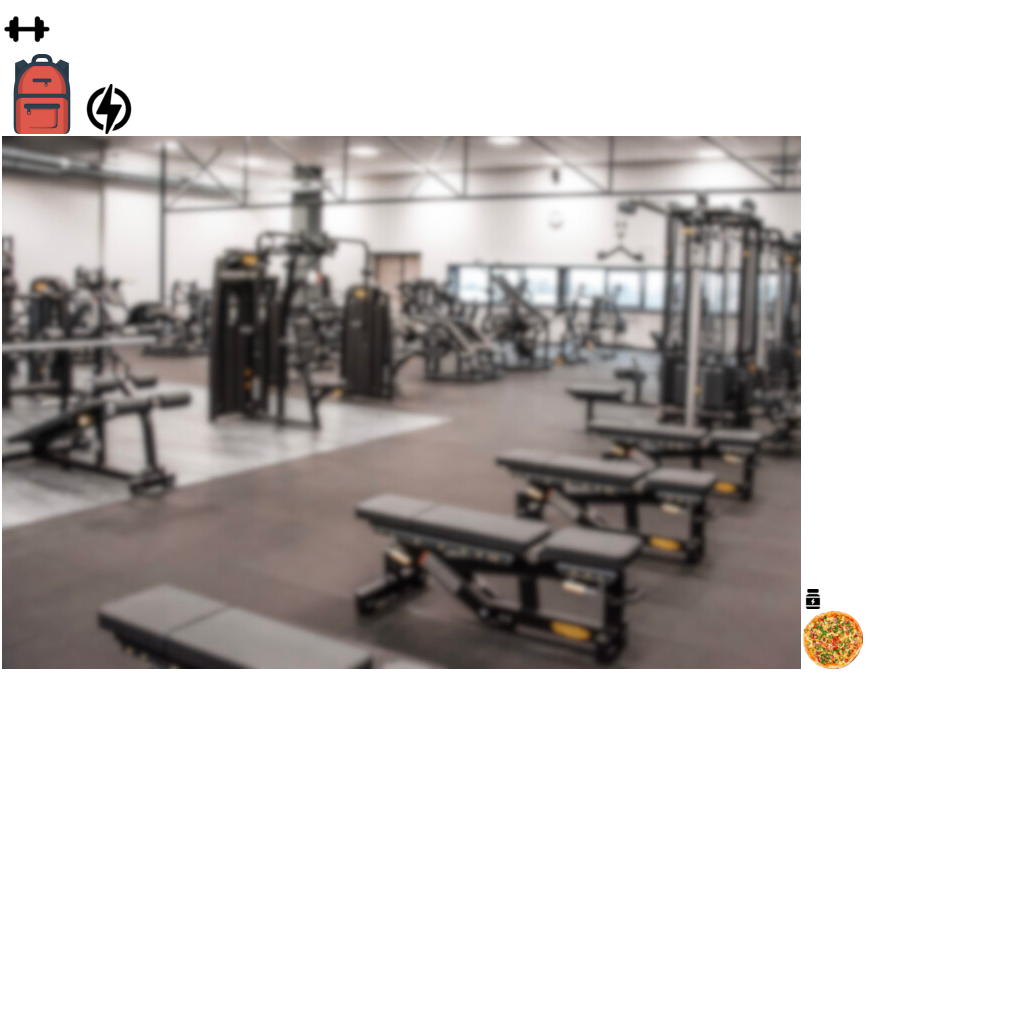
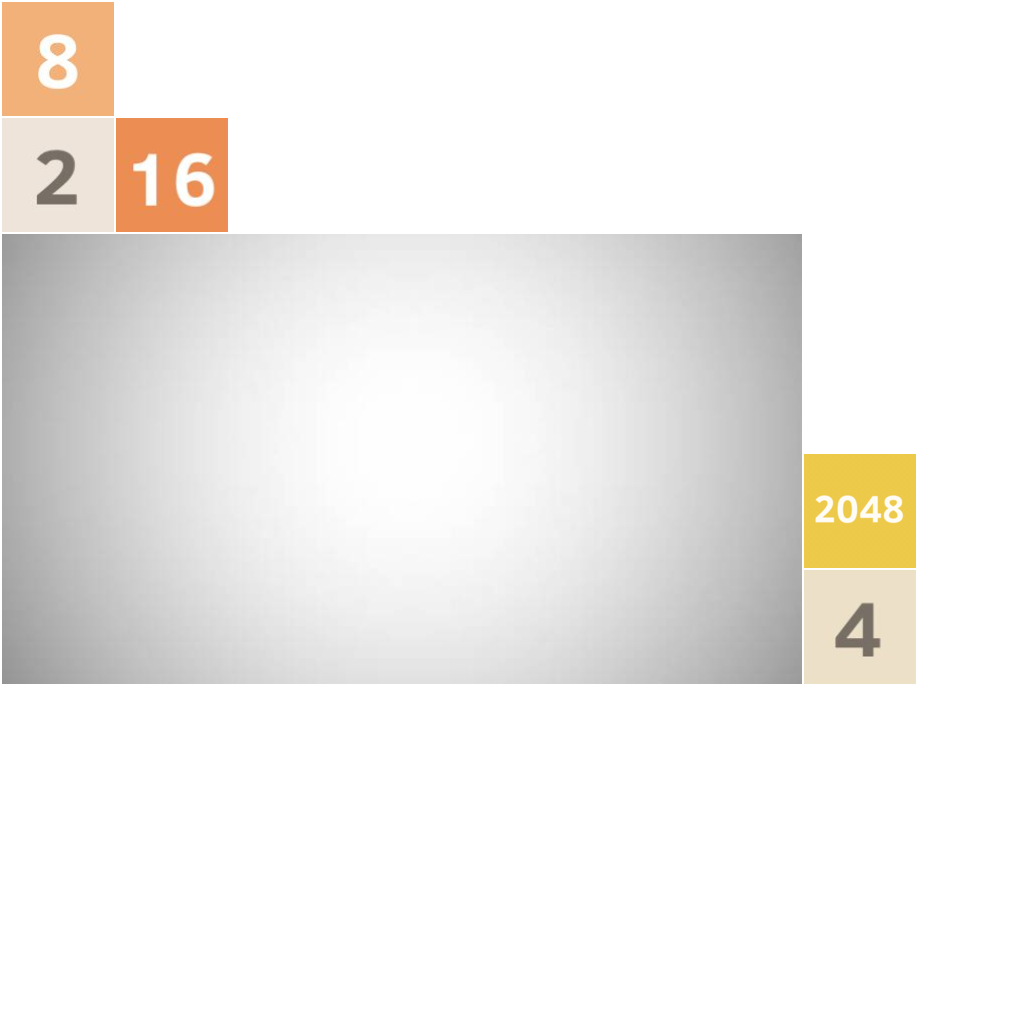
added animation to my game

diff --git a/core/src/com/mygdx/game/screen/IntroScreen.java b/core/src/com/mygdx/game/screen/IntroScreen.java
@@ -9,6 +9,7 @@ import com.badlogic.gdx.scenes.scene2d.actions.Actions;
 import com.badlogic.gdx.scenes.scene2d.ui.Image;
 import com.badlogic.gdx.utils.Align;
 import com.badlogic.gdx.utils.ScreenUtils;
+import com.badlogic.gdx.utils.Timer;
 import com.badlogic.gdx.utils.viewport.FitViewport;
 import com.badlogic.gdx.utils.viewport.Viewport;
 import com.mygdx.game.My2048Game;
@@ -17,7 +18,8 @@ import com.mygdx.game.assets.RegionNames;
 import com.mygdx.game.config.GameConfig;
 
 public class IntroScreen extends ScreenAdapter {
-    public static final float INTRO_DURATION_IN_SEC = 3f;
+    public static final float INTRO_DURATION_IN_SEC = 5f;
+    public static final float INTRO_DURATION_IN_SEC3 = 3f;
 
     private final My2048Game game;
     private final AssetManager assetManager;
@@ -47,7 +49,6 @@ public class IntroScreen extends ScreenAdapter {
 
         gameplayAtlas = assetManager.get(AssetDescriptors.GAMEPLAY);
 
-        stage.addActor(createKeyhole());
         stage.addActor(createAnimation());
     }
 
@@ -58,7 +59,7 @@ public class IntroScreen extends ScreenAdapter {
 
     @Override
     public void render(float delta) {
-        ScreenUtils.clear(65 / 255f, 159 / 255f, 221 / 255f, 0f);
+        ScreenUtils.clear(240 / 255f, 240 / 255f, 240 / 255f, 1);
 
         duration += delta;
 
@@ -80,36 +81,82 @@ public class IntroScreen extends ScreenAdapter {
         stage.dispose();
     }
 
-    private Actor createKeyhole() {
-        Image keyhole = new Image(gameplayAtlas.findRegion(RegionNames.BACKGROUND));
-        // position the image to the center of the window
-        keyhole.setPosition(viewport.getWorldWidth() / 2f - keyhole.getWidth() / 2f,
-                viewport.getWorldHeight() / 2f - keyhole.getHeight() / 2f);
-        return keyhole;
-    }
-
     private Actor createAnimation() {
-        Image key = new Image(gameplayAtlas.findRegion(RegionNames.BACKGROUND));
+        final Image image1 = new Image(gameplayAtlas.findRegion(RegionNames.BLOCK2));
+        final Image image2 = new Image(gameplayAtlas.findRegion(RegionNames.BLOCK4));
+        final Image image3 = new Image(gameplayAtlas.findRegion(RegionNames.BLOCK8));
+        final Image image4 = new Image(gameplayAtlas.findRegion(RegionNames.BLOCK16));
 
-        // set positions x, y to center the image to the center of the window
-        float posX = (viewport.getWorldWidth() / 2f) - key.getWidth() / 2f;
-        float posY = (viewport.getWorldHeight() / 2f) - key.getHeight() / 2f;
+        image1.setPosition(0, GameConfig.HUD_HEIGHT / 2 - image1.getHeight() / 2, Align.bottomLeft);
+        image2.setPosition(GameConfig.HUD_WIDTH - image2.getWidth(), GameConfig.HUD_HEIGHT / 2 - image2.getHeight() / 2, Align.bottomRight);
+        image3.setPosition(GameConfig.HUD_WIDTH / 2 - image3.getWidth() / 2, 0, Align.bottomLeft);
+        image4.setPosition(GameConfig.HUD_WIDTH / 2 - image4.getWidth() / 2, GameConfig.HUD_HEIGHT - image4.getHeight(), Align.topLeft);
 
-        key.setOrigin(Align.center);
-        key.addAction(
-                /* animationDuration = Actions.sequence + Actions.rotateBy + Actions.scaleTo
-                                      = 1.5 + 1 + 0.5 = 3 sec */
-                Actions.sequence(
-                        Actions.parallel(
-                                Actions.rotateBy(1080, 1.5f),   // rotate the image three times
-                                Actions.moveTo(posX, posY, 1.5f)   // // move image to the center of the window
-                        ),
-                        Actions.rotateBy(-360, 1),  // rotate the image for 360 degrees to the left side
-                        Actions.scaleTo(0, 0, 0.5f),    // "minimize"/"hide" image
-                        Actions.removeActor()   // // remove image
-                )
-        );
+        float duration = INTRO_DURATION_IN_SEC3;
 
-        return key;
+        image1.addAction(Actions.sequence(
+                Actions.moveTo(GameConfig.HUD_WIDTH / 2 - image1.getWidth() / 2, GameConfig.HUD_HEIGHT / 2 - image1.getHeight() / 2, duration)
+        ));
+
+        image2.addAction(Actions.sequence(
+                Actions.moveTo(GameConfig.HUD_WIDTH / 2 - image2.getWidth() / 2, GameConfig.HUD_HEIGHT / 2 - image2.getHeight() / 2, duration)
+        ));
+
+        image3.addAction(Actions.sequence(
+                Actions.moveTo(GameConfig.HUD_WIDTH / 2 - image3.getWidth() / 2, GameConfig.HUD_HEIGHT / 2 - image3.getHeight() / 2, duration)
+        ));
+
+        image4.addAction(Actions.sequence(
+                Actions.moveTo(GameConfig.HUD_WIDTH / 2 - image4.getWidth() / 2, GameConfig.HUD_HEIGHT / 2 - image4.getHeight() / 2, duration),
+                Actions.run(new Runnable() {
+                    @Override
+                    public void run() {
+                        checkCollisionAndDisplayFinalImage(image1, image2);
+                    }
+                })
+        ));
+
+        stage.addActor(image1);
+        stage.addActor(image2);
+        stage.addActor(image3);
+        stage.addActor(image4);
+
+        return image1;
     }
+
+
+    private void checkCollisionAndDisplayFinalImage(Image image1, Image image2) {
+        float image1X = image1.getX();
+        float image1Y = image1.getY();
+        float image1Width = image1.getWidth();
+        float image1Height = image1.getHeight();
+
+        float image2X = image2.getX();
+        float image2Y = image2.getY();
+        float image2Width = image2.getWidth();
+        float image2Height = image2.getHeight();
+
+        if (image1X < image2X + image2Width &&
+                image1X + image1Width > image2X &&
+                image1Y < image2Y + image2Height &&
+                image1Y + image1Height > image2Y) {
+            // Collision occurred
+            final Image thirdImage = createNewImageAtCenter();
+            stage.addActor(thirdImage);
+
+            Timer.schedule(new Timer.Task() {
+                @Override
+                public void run() {
+                    thirdImage.remove();
+                }
+            }, 2f);
+        }
+    }
+
+    private Image createNewImageAtCenter() {
+        Image newImage = new Image(gameplayAtlas.findRegion(RegionNames.BLOCK2048));
+        newImage.setPosition(GameConfig.HUD_WIDTH / 2 - newImage.getWidth() / 2, GameConfig.HUD_HEIGHT / 2 - newImage.getHeight() / 2);
+        return newImage;
+    }
+
 }

diff --git a/core/src/com/mygdx/game/screen/LeaderboardScreen.java b/core/src/com/mygdx/game/screen/LeaderboardScreen.java
@@ -7,6 +7,8 @@ import com.badlogic.gdx.graphics.g2d.TextureAtlas;
 import com.badlogic.gdx.scenes.scene2d.Actor;
 import com.badlogic.gdx.scenes.scene2d.InputEvent;
 import com.badlogic.gdx.scenes.scene2d.Stage;
+import com.badlogic.gdx.scenes.scene2d.ui.Label;
+import com.badlogic.gdx.scenes.scene2d.ui.ScrollPane;
 import com.badlogic.gdx.scenes.scene2d.ui.Skin;
 import com.badlogic.gdx.scenes.scene2d.ui.Table;
 import com.badlogic.gdx.scenes.scene2d.ui.TextButton;
@@ -43,6 +45,7 @@ public class LeaderboardScreen extends ScreenAdapter {
         gameplayAtlas = assetManager.get(AssetDescriptors.GAMEPLAY);
 
         stage.addActor(createUI());
+        stage.addActor(createLeaderboard());
         Gdx.input.setInputProcessor(stage);
     }
 
@@ -53,7 +56,7 @@ public class LeaderboardScreen extends ScreenAdapter {
 
     @Override
     public void render(float delta) {
-        ScreenUtils.clear(0f, 0f, 0f, 0f);
+        ScreenUtils.clear(240 / 255f, 240 / 255f, 240 / 255f, 1);
 
         stage.act(delta);
         stage.draw();
@@ -101,4 +104,51 @@ public class LeaderboardScreen extends ScreenAdapter {
 
         return table;
     }
+
+    private Actor createLeaderboard() {
+        Table mainTable = new Table();
+        mainTable.center().top().padTop(100);
+
+        Label titleLabel = new Label("Leaderboard", skin);
+        mainTable.add(titleLabel).colspan(2).padBottom(30);
+        mainTable.row();
+
+        Table leaderboardTable = new Table();
+        leaderboardTable.defaults();
+
+        String[] playerNames = {"Player1", "Player2", "Player3", "Player4", "Player5",
+                "Player6", "Player7", "Player8", "Player9", "Player10",
+                "Player11", "Player12", "Player13", "Player14", "Player15",
+                "Player16", "Player17", "Player18", "Player19", "Player20"};
+
+        int[] scores = {100, 80, 120, 70, 80, 90, 100, 110, 120, 130,
+                85, 75, 95, 105, 115, 88, 92, 100, 120, 130};
+
+        leaderboardTable.row().padBottom(20);
+
+        for (int i = 0; i < playerNames.length; i++) {
+            Label nameLabel = new Label(playerNames[i], skin);
+            leaderboardTable.add(nameLabel).padRight(50);
+
+            Label scoreLabel = new Label(String.valueOf(scores[i]), skin);
+            leaderboardTable.add(scoreLabel);
+            leaderboardTable.row().padBottom(20);
+        }
+
+        ScrollPane scrollPane = new ScrollPane(leaderboardTable, skin);
+        scrollPane.setFadeScrollBars(false);
+
+        Table containerTable = new Table();
+        containerTable.add(scrollPane).expand().fill();
+
+        mainTable.add(containerTable).width(600).height(400).expand().fill();
+
+        mainTable.pack();
+        mainTable.setFillParent(true);
+
+        return mainTable;
+    }
+
+
+
 }

diff --git a/core/src/com/mygdx/game/screen/MenuScreen.java b/core/src/com/mygdx/game/screen/MenuScreen.java
@@ -4,21 +4,19 @@ import com.badlogic.gdx.Gdx;
 import com.badlogic.gdx.ScreenAdapter;
 import com.badlogic.gdx.assets.AssetManager;
 import com.badlogic.gdx.graphics.g2d.TextureAtlas;
-import com.badlogic.gdx.graphics.g2d.TextureRegion;
 import com.badlogic.gdx.scenes.scene2d.Actor;
 import com.badlogic.gdx.scenes.scene2d.InputEvent;
 import com.badlogic.gdx.scenes.scene2d.Stage;
+import com.badlogic.gdx.scenes.scene2d.ui.Label;
 import com.badlogic.gdx.scenes.scene2d.ui.Skin;
 import com.badlogic.gdx.scenes.scene2d.ui.Table;
 import com.badlogic.gdx.scenes.scene2d.ui.TextButton;
 import com.badlogic.gdx.scenes.scene2d.utils.ClickListener;
-import com.badlogic.gdx.scenes.scene2d.utils.TextureRegionDrawable;
 import com.badlogic.gdx.utils.ScreenUtils;
 import com.badlogic.gdx.utils.viewport.FitViewport;
 import com.badlogic.gdx.utils.viewport.Viewport;
 import com.mygdx.game.My2048Game;
 import com.mygdx.game.assets.AssetDescriptors;
-import com.mygdx.game.assets.RegionNames;
 import com.mygdx.game.config.GameConfig;
 
 public class MenuScreen extends ScreenAdapter {
@@ -56,7 +54,7 @@ public class MenuScreen extends ScreenAdapter {
 
     @Override
     public void render(float delta) {
-        ScreenUtils.clear(0f, 0f, 0f, 0f);
+        ScreenUtils.clear(240 / 255f, 240 / 255f, 240 / 255f, 1);
 
         stage.act(delta);
         stage.draw();
@@ -76,8 +74,8 @@ public class MenuScreen extends ScreenAdapter {
         Table table = new Table();
         table.defaults().pad(20);
 
-        TextureRegion backgroundRegion = gameplayAtlas.findRegion(RegionNames.BACKGROUND);
-        table.setBackground(new TextureRegionDrawable(backgroundRegion));
+        Label titleLabel = new Label("2048 GAME", skin);
+        table.add(titleLabel).top().colspan(3).padTop(100).row();
 
         TextButton playButton = new TextButton("Play", skin);
         playButton.addListener(new ClickListener() {
@@ -106,16 +104,13 @@ public class MenuScreen extends ScreenAdapter {
         Table buttonTable = new Table();
         buttonTable.defaults().padLeft(30).padRight(30);
 
-        TextureRegion menuBackgroundRegion = gameplayAtlas.findRegion(RegionNames.BACKGROUND);
-        buttonTable.setBackground(new TextureRegionDrawable(menuBackgroundRegion));
-
         buttonTable.add(playButton).padBottom(15).expandX().fill().row();
         buttonTable.add(leaderboardButton).padBottom(15).fillX().row();
         buttonTable.add(quitButton).fillX();
 
         buttonTable.center();
 
-        table.add(buttonTable);
+        table.add(buttonTable).expand().fill();
         table.center();
         table.setFillParent(true);
         table.pack();

diff --git a/core/src/com/mygdx/game/assets/RegionNames.java b/core/src/com/mygdx/game/assets/RegionNames.java
@@ -2,7 +2,13 @@ package com.mygdx.game.assets;
 
 public class RegionNames {
     // gameplay.atlas
-    public static final String BACKGROUND = "fitness_background";
+
+    public static final String BACKGROUND = "background";
+    public static final String BLOCK2 = "block2";
+    public static final String BLOCK4 = "block4";
+    public static final String BLOCK8 = "block8";
+    public static final String BLOCK16 = "block16";
+    public static final String BLOCK2048 = "block2048";
 
     private RegionNames() {
     }
